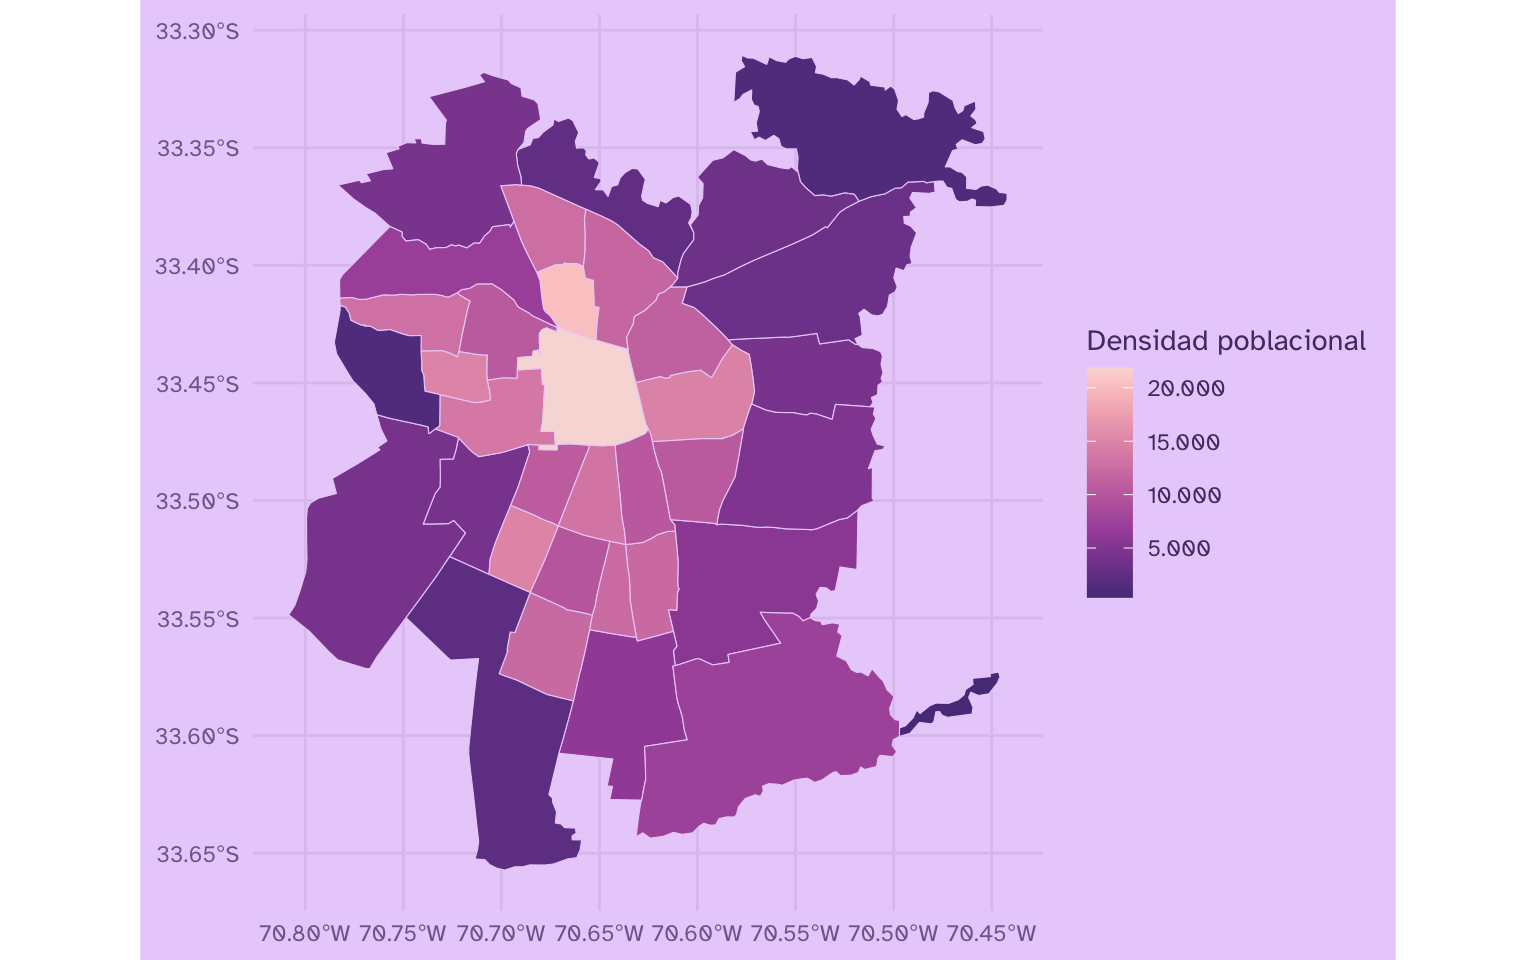
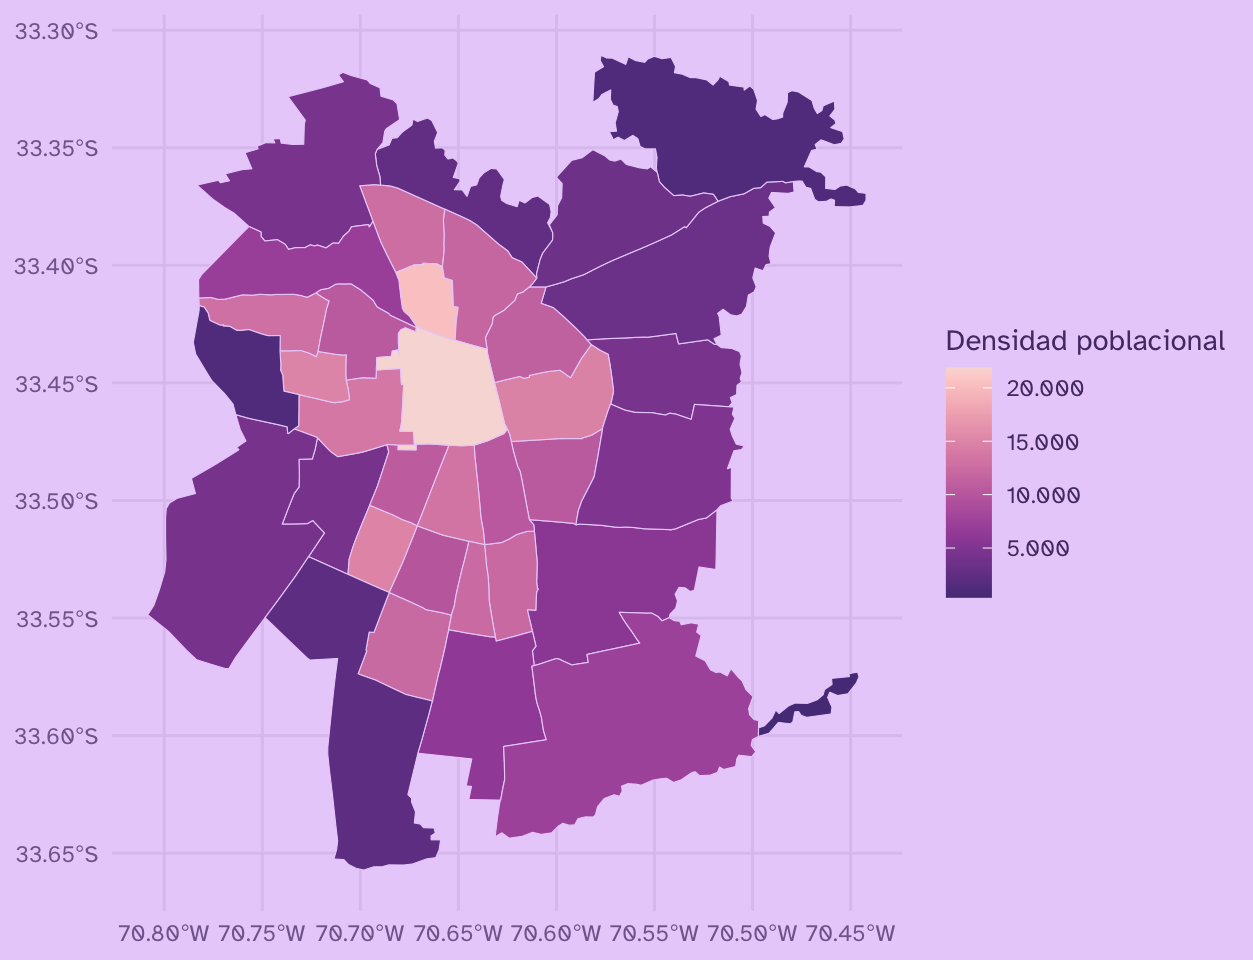
partial más leídos en index

diff --git a/assets/custom.scss b/assets/custom.scss
@@ -523,51 +523,138 @@ a>svg.anchor-symbol {
 
 
 // publicaciones más vistas en la portada (layouts/partials/mas_vistos.html)
+$mas-vistos-alto: 64px;
+$mas-vistos-morado: #9069C0;
+$mas-vistos-fondo-sitio: #EAD1FA;
+// márgenes del sitio en móvil: main.pa4 (2rem) + columna mh4 (2rem)
+$mas-vistos-margen-movil: 4rem;
+
 .mas-vistos {
-  margin-top: 28px;
   text-align: left;
+}
+
+.mas-vistos-contenedor {
+  position: relative;
+
+  // degradado en el borde derecho que indica que hay más contenido;
+  // se oculta con js (clase .al-final) al llegar al final del scroll
+  &::after {
+    content: "";
+    position: absolute;
+    right: 0;
+    top: 0;
+    // 1px más que las tarjetas, que es lo que medía en pantalla
+    height: $mas-vistos-alto + 1px;
+    width: 56px;
+    background: linear-gradient(to right, rgba($mas-vistos-fondo-sitio, 0), $mas-vistos-fondo-sitio);
+    pointer-events: none;
+    transition: opacity 0.2s;
+  }
+
+  &.al-final::after {
+    opacity: 0;
+  }
 }
 
 .mas-vistos-fila {
   display: flex;
-  gap: 4px;
+  gap: 8px;
   overflow-x: auto;
   scroll-snap-type: x mandatory;
-  padding-bottom: 6px;
+  padding-bottom: 8px;
+  // barra de scroll delgada y morada en todas las plataformas
+  // (estándar: firefox, chrome 121+, safari 18.2+)
   scrollbar-width: thin;
-  scrollbar-color: #9069C060 transparent;
+  scrollbar-color: rgba($mas-vistos-morado, 0.38) transparent;
+
+  // respaldo para webkit antiguo
+  &::-webkit-scrollbar {
+    height: 6px;
+  }
+
+  &::-webkit-scrollbar-track {
+    background: transparent;
+  }
+
+  &::-webkit-scrollbar-thumb {
+    background-color: rgba($mas-vistos-morado, 0.38);
+    border-radius: 3px;
+  }
+}
+
+// en móvil, extender el scroll hasta los bordes de la pantalla: se anulan los
+// márgenes del sitio y se devuelven como relleno
+@media (max-width: 59.99em) {
+  .mas-vistos-contenedor::after {
+    right: -$mas-vistos-margen-movil;
+  }
+
+  .mas-vistos-fila {
+    margin-left: -$mas-vistos-margen-movil;
+    margin-right: -$mas-vistos-margen-movil;
+    padding-left: $mas-vistos-margen-movil;
+    padding-right: $mas-vistos-margen-movil;
+    scroll-padding-left: $mas-vistos-margen-movil;
+  }
 }
 
 .mas-vistos-item {
-  flex: 0 0 230px;
+  flex: 0 0 250px;
   display: flex;
   flex-direction: row;
+  // centrar verticalmente imagen y texto
   align-items: center;
   gap: 12px;
-  padding: 8px 10px 8px 0;
+  height: $mas-vistos-alto;
+  padding: 6px 14px 6px 10px;
+  background-color: rgba($mas-vistos-morado, 0.1);
+  border-radius: 8px;
   scroll-snap-align: start;
   text-decoration: none !important;
   color: inherit;
 
-  img, .mas-vistos-sin-imagen {
+  img {
     flex-shrink: 0;
-    width: 52px;
-    height: 38px;
-    object-fit: cover;
-    object-position: center top;
-    border-radius: 4px;
     margin: 0;
+    // mostrar la imagen completa, sin recortarla; el tamaño se ajusta a la imagen
+    // para que el borde redondeado quede en la imagen y no en la caja
+    width: auto;
+    height: auto;
+    max-width: 52px;
+    max-height: 44px;
+    border-radius: 6px;
   }
 
+  // recuadro de relleno para publicaciones sin imagen
   .mas-vistos-sin-imagen {
-    background-color: #9069C020;
+    flex-shrink: 0;
+    width: 52px;
+    height: 44px;
+    border-radius: 6px;
+    background-color: rgba($mas-vistos-morado, 0.125);
   }
 
   span {
-    font-size: 88%;
-    color: #9069C0;
+    font-size: 80%;
+    color: $mas-vistos-morado;
     font-weight: 600;
-    line-height: 1.35;
+    line-height: 1.3;
+    // máximo 3 líneas de título
+    display: -webkit-box;
+    -webkit-line-clamp: 3;
+    -webkit-box-orient: vertical;
+    overflow: hidden;
+  }
+
+  // enlace final «ver más»
+  &.mas-vistos-mas {
+    flex: 0 0 auto;
+    padding: 6px 14px;
+    background-color: transparent;
+    font-size: 80%;
+    font-weight: 600;
+    color: $mas-vistos-morado;
+    white-space: nowrap;
   }
 }
 

diff --git a/layouts/partials/mas_vistos.html b/layouts/partials/mas_vistos.html
@@ -7,29 +7,48 @@
   {{- range .publicaciones -}}
     {{- $ruta := .ruta -}}
     {{- with where site.RegularPages "RelPermalink" $ruta -}}
-      {{- if lt (len $paginas) 10 -}}
-        {{- $paginas = $paginas | append (index . 0) -}}
+      {{- $pagina := index . 0 -}}
+      {{/* excluir publicaciones de cursos */}}
+      {{- $es_curso := or (strings.Contains (lower $pagina.Title) "curso") (strings.Contains (lower $ruta) "curso") -}}
+      {{- if and (not $es_curso) (lt (len $paginas) 10) -}}
+        {{- $paginas = $paginas | append $pagina -}}
       {{- end -}}
     {{- end -}}
   {{- end -}}
 
   {{- with $paginas -}}
   <div class="mas-vistos">
-    <p class="titulo-panel">Los más vistos</p>
-
-    <div class="mas-vistos-fila">
-      {{- range . -}}
-        {{- $miniatura := (.Resources.ByType "image").GetMatch "*feature*" -}}
-        <a class="mas-vistos-item" href="{{ .RelPermalink }}">
-          {{- with $miniatura }}
-          <img src="{{ .RelPermalink }}" alt="" loading="lazy">
-          {{- else }}
-          <div class="mas-vistos-sin-imagen"></div>
-          {{- end }}
-          <span>{{ .Title | markdownify }}</span>
-        </a>
-      {{- end -}}
+    <div class="mas-vistos-contenedor">
+      <div class="mas-vistos-fila">
+        {{- range . -}}
+          {{- $miniatura := (.Resources.ByType "image").GetMatch "*feature*" -}}
+          <a class="mas-vistos-item" href="{{ .RelPermalink }}">
+            {{- with $miniatura }}
+            <img src="{{ .RelPermalink }}" alt="" loading="lazy">
+            {{- else }}
+            <div class="mas-vistos-sin-imagen"></div>
+            {{- end }}
+            <span>{{ .Title | markdownify }}</span>
+          </a>
+        {{- end -}}
+        <a class="mas-vistos-item mas-vistos-mas" href="/blog/">Ver más &gt;</a>
+      </div>
     </div>
+
+    <script>
+      // quitar el degradado del borde derecho cuando el scroll llega al final
+      (function () {
+        var contenedor = document.currentScript.parentElement.querySelector('.mas-vistos-contenedor');
+        var fila = contenedor.querySelector('.mas-vistos-fila');
+        function actualizar() {
+          var al_final = fila.scrollLeft + fila.clientWidth >= fila.scrollWidth - 4;
+          contenedor.classList.toggle('al-final', al_final);
+        }
+        fila.addEventListener('scroll', actualizar, { passive: true });
+        window.addEventListener('resize', actualizar);
+        actualizar();
+      })();
+    </script>
   </div>
   {{- end -}}
 {{- end -}}

diff --git a/layouts/index.html b/layouts/index.html
@@ -27,16 +27,20 @@
         <!-- {{ if .Params.show_action_link }}<a class="mt4 action {{ .Params.action_type }}" href="{{ .Params.action_link | relURL }}">{{ .Params.action_label | safeHTML }}</a>{{ end }} -->
         
         <!-- enlaces principales --->
-        <a class="mt4 action text" href="/blog/">blog ></a>
-        
-        <a class="mt4 action text" href="https://bastianolea.github.io/aprende_r/">aprende R ></a>
-        
-        <a class="mt4 action text" href="https://bastianolea.github.io/shiny_apps/">apps ></a>
+        <div class="mt4 mb4" style="display: flex; flex-wrap: wrap; gap: 0.5rem 1.8rem; align-items: baseline; {{ if not .Params.text_align_left }}justify-content: flex-end;{{ end }}">
+          <a class="action text" style="margin: 0;" href="/blog/">blog ></a>
+          <a class="action text" style="margin: 0;" href="https://bastianolea.github.io/aprende_r/">aprende R ></a>
+          <a class="action text" style="margin: 0;" href="https://bastianolea.github.io/shiny_apps/">apps ></a>
+        </div>
         
         <!-- lista de etiquetas -->
+        <p class="titulo-panel">Temas principales:</p>
         {{ partial "shared/tags-wide-big.html" . }}
 
         <!-- publicaciones más vistas -->
+        {{ with site.Data.mas_vistos }}
+        <p class="titulo-panel" style="margin-top: 28px;">Publicaciones más leídas:</p>
+        {{ end }}
         {{ partial "mas_vistos.html" . }}
 
       </div>

diff --git a/layouts/partials/shared/tags-wide-big.html b/layouts/partials/shared/tags-wide-big.html
@@ -1,7 +1,7 @@
 <!--lista de etiquetas-->
 <div style="font-size: 90%;">
   <!-- <h2 style="margin-top: 32px; margin-bottom: 12px;">Temas principales del <a href="/blog/">blog:</a></h2> -->
-  {{ range $index, $var := (first 20 (sort .Site.Taxonomies.tags "Count" "desc")) }} <!-- ordenar de mayor a menor-->
+  {{ range $index, $var := (first 16 (sort .Site.Taxonomies.tags "Count" "desc")) }} <!-- ordenar de mayor a menor-->
   <!--(first 25 antes de (sort para elegir un máximo de tags-->
   <span style="margin-bottom: 10px; line-height: 1.1;">
     <span style="margin: 3px; margin-left: 1px; margin-right: 1px; 
@@ -17,5 +17,5 @@
       href="{{ .Page.Permalink }}">{{ .Page.Title }}</a></span>
   </span>
 {{ end }}
-<a href="/tags/" style="margin-left: 3px;">y más!</a>
+<a href="/tags/" style="margin-left: 3px; font-size: 90%;">y más!</a>
 </div>
